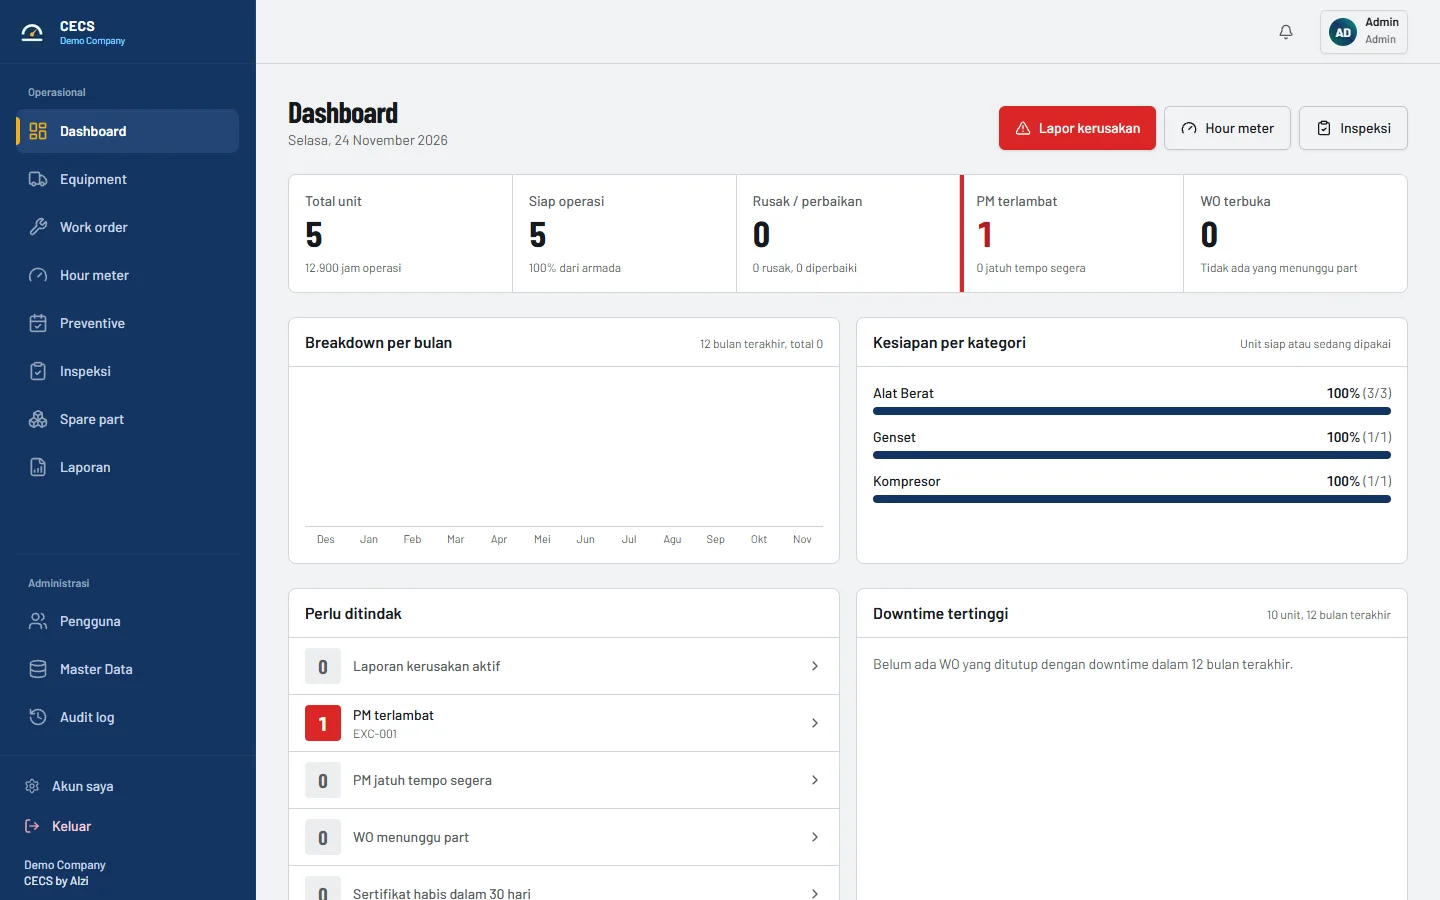
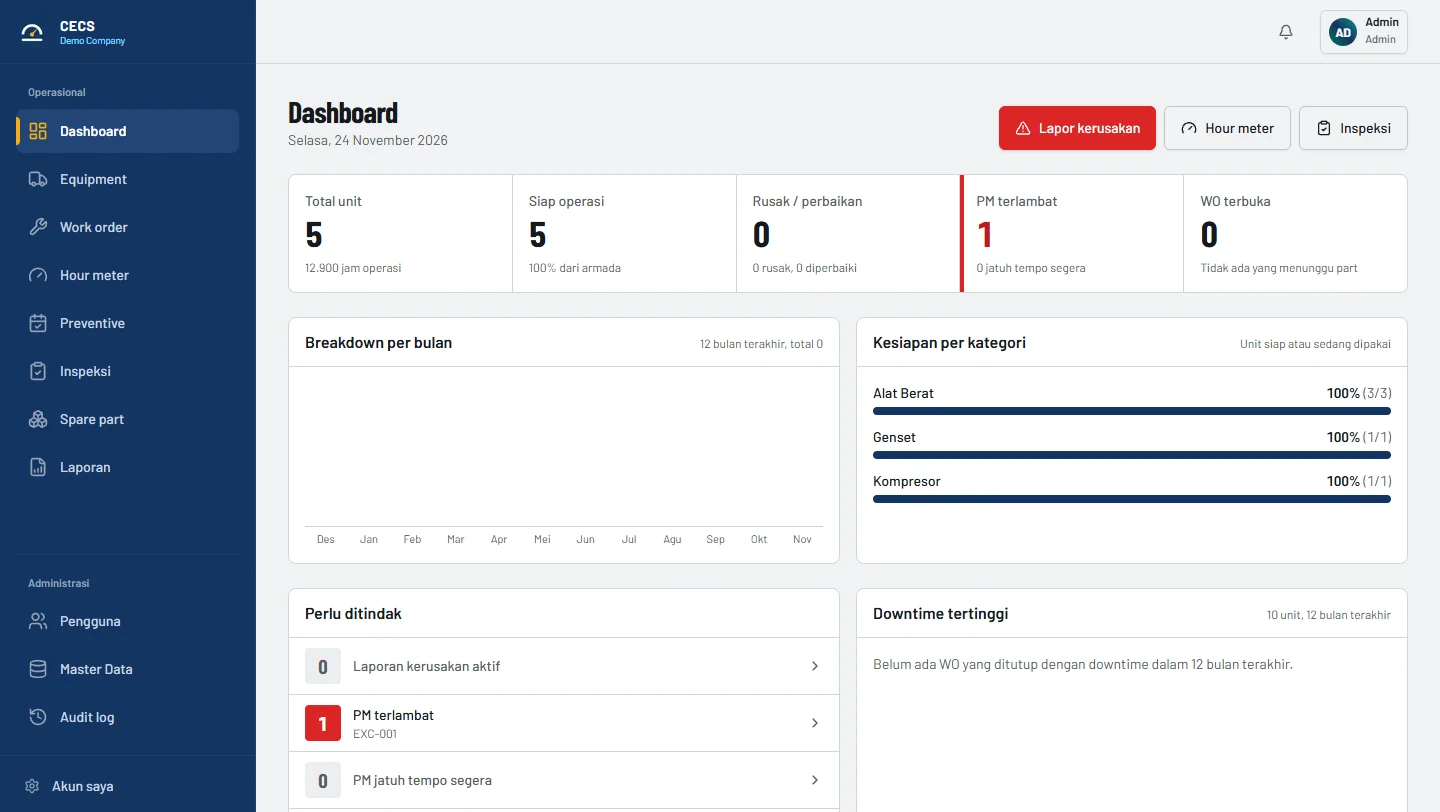
style: show project screenshots whole with titles below
Replace the cropped, darkened covers with centered screenshots on soft tints and share one project card between Home and Works.

diff --git a/src/data/portfolio.ts b/src/data/portfolio.ts
@@ -17,7 +17,7 @@ export type Project = {
   role: string;
   year: string;
   tags: string[];
-  cover: string; // gradient behind app screens
+  cover: string; // background class behind the image
   image?: { src: string; alt: string; kind: "screen" | "full"; position?: string };
   video?: { youtubeId: string; title: string; caption: string };
   blurb: string;
@@ -39,7 +39,7 @@ export const projects: Project[] = [
     role: "Founder & Developer",
     year: "2026",
     tags: ["Electron", "React", "TypeScript", "AI"],
-    cover: "from-[#2A1F6B] via-[#6D3BD1] to-[#B78BFA]",
+    cover: "bg-[#E3DDF4]",
     image: {
       src: "/works/snapculler.webp",
       alt: "SnapCuller grid view with a folder of photos",
@@ -65,7 +65,7 @@ export const projects: Project[] = [
     role: "Software & IoT Engineer",
     year: "Palma Shipyard",
     tags: ["IoT", "Hardware integration", "Reporting"],
-    cover: "from-[#0F2027] via-[#1F4B5C] to-[#2C7A7B]",
+    cover: "bg-[#D9E6E4]",
     image: {
       src: "/works/bollard-pull.webp",
       alt: "Tugboat Cahaya 1603 under test with the live load reading on screen",
@@ -96,7 +96,7 @@ export const projects: Project[] = [
     role: "ERP Functional & Technical Consultant",
     year: "2022 — Now",
     tags: ["ERPNext", "Python", "MariaDB", "Linux"],
-    cover: "from-[#134E5E] via-[#2F7D6B] to-[#71B280]",
+    cover: "bg-[#0F3B3A]",
     image: {
       src: "/works/erpnext.svg",
       alt: "Diagram of stock issues traced back to the receipts they came from",
@@ -122,7 +122,7 @@ export const projects: Project[] = [
     role: "Full-stack Developer",
     year: "2026",
     tags: ["Next.js", "PostgreSQL", "Prisma", "Docker"],
-    cover: "from-[#8A3B12] via-[#D9772B] to-[#F7B955]",
+    cover: "bg-[#F3E2CB]",
     image: {
       src: "/works/cecs.webp",
       alt: "CECS dashboard with demo equipment data",
@@ -148,7 +148,7 @@ export const projects: Project[] = [
     role: "Full-stack Developer",
     year: "2026",
     tags: ["React", "PWA", "TypeScript"],
-    cover: "from-[#7FA8E8] via-[#4C7BDD] to-[#3B5BDB]",
+    cover: "bg-[#DAE4F5]",
     image: {
       src: "/works/nor-checklist.webp",
       alt: "NOR Checklist admin dashboard with demo vessels",
@@ -173,7 +173,7 @@ export const projects: Project[] = [
     role: "Developer",
     year: "2026",
     tags: ["FastAPI", "PostgreSQL", "Docker", "Webhooks"],
-    cover: "from-[#0F3D2E] via-[#1B5E46] to-[#2E8B66]",
+    cover: "bg-[#D8E8DE]",
     image: {
       src: "/works/attendance.webp",
       alt: "Fingerspot Attendance Hub with demo scans",
@@ -199,7 +199,7 @@ export const projects: Project[] = [
     role: "Website Developer",
     year: "2022 — Now",
     tags: ["WordPress", "Elementor", "cPanel"],
-    cover: "from-[#A1C4FD] via-[#7BB1F0] to-[#C2E9FB]",
+    cover: "bg-[#D9E6E4]",
     image: {
       src: "/works/palma.webp",
       alt: "Palma Shipyard website home page",
@@ -223,7 +223,7 @@ export const projects: Project[] = [
     role: "Developer & Creator",
     year: "2026",
     tags: ["React", "TypeScript", "Vite"],
-    cover: "from-[#3B2FA8] via-[#7C5CF0] to-[#E879C9]",
+    cover: "bg-[#E6DDF3]",
     image: {
       src: "/works/securebatch.webp",
       alt: "SecureBatch QR contact form",
@@ -248,7 +248,7 @@ export const projects: Project[] = [
     role: "Developer",
     year: "2025",
     tags: ["Laravel", "PHP", "Bootstrap"],
-    cover: "from-[#8FBF4D] via-[#5FA24A] to-[#3F8F4F]",
+    cover: "bg-[#F4F1E4]",
     image: {
       src: "/works/disciplinr.svg",
       alt: "Illustration of a week of time boxes, kept and missed",

diff --git a/src/routes/works.index.tsx b/src/routes/works.index.tsx
@@ -1,5 +1,5 @@
-import { createFileRoute, Link } from "@tanstack/react-router";
-import { ProjectCover } from "@/components/site/ProjectCover";
+import { createFileRoute } from "@tanstack/react-router";
+import { ProjectCard } from "@/components/site/ProjectCard";
 import { projects } from "@/data/portfolio";
 
 export const Route = createFileRoute("/works/")({
@@ -36,31 +36,9 @@ function Works() {
         </p>
       </header>
 
-      <div className="mt-16 grid gap-8 sm:grid-cols-2">
+      <div className="mt-16 grid gap-x-8 gap-y-14 sm:grid-cols-2">
         {projects.map((p, i) => (
-          <Link
-            key={p.slug}
-            to="/works/$slug"
-            params={{ slug: p.slug }}
-            className={`group block fade-up ${i % 3 === 0 ? "sm:col-span-2" : ""}`}
-            style={{ animationDelay: `${i * 60}ms` }}
-          >
-            <ProjectCover project={p} wide={i % 3 === 0} />
-            <div className="mt-4 flex flex-wrap items-center justify-between gap-2 text-sm">
-              <p className="text-ink">{p.role}</p>
-              <ul className="flex flex-wrap gap-1.5">
-                {p.tags.map((t) => (
-                  <li
-                    key={t}
-                    className="rounded-full border border-border bg-card px-2.5 py-0.5 text-xs text-ink-soft"
-                  >
-                    {t}
-                  </li>
-                ))}
-              </ul>
-            </div>
-            <p className="mt-3 max-w-xl text-sm text-ink-soft">{p.blurb}</p>
-          </Link>
+          <ProjectCard key={p.slug} project={p} wide={i % 3 === 0} />
         ))}
       </div>
     </section>

diff --git a/src/components/site/ProjectMedia.tsx b/src/components/site/ProjectMedia.tsx
@@ -1,13 +1,9 @@
 import { useState } from "react";
 import { projectName, type Project } from "@/data/portfolio";
 
-/** Fills its parent: photos and artwork edge to edge, app screens as an inset window. */
+/** Fills its parent: photos and artwork edge to edge, app screens whole and centered. */
 export function ProjectImage({ project, eager = false }: { project: Project; eager?: boolean }) {
-  if (!project.image) {
-    return (
-      <div className="absolute inset-0 bg-[radial-gradient(circle_at_30%_20%,rgba(255,255,255,0.25),transparent_55%)]" />
-    );
-  }
+  if (!project.image) return null;
   const img = {
     src: project.image.src,
     alt: project.image.alt,
@@ -15,8 +11,11 @@ export function ProjectImage({ project, eager = false }: { project: Project; eag
   };
   if (project.image.kind === "screen") {
     return (
-      <div className="absolute -bottom-px -right-px left-[7%] top-[9%] overflow-hidden rounded-tl-xl shadow-[0_24px_60px_-12px_rgb(0_0_0_/0.55)]">
-        <img {...img} className="h-full w-full object-cover object-left-top" />
+      <div className="absolute inset-[6%] flex items-center justify-center">
+        <img
+          {...img}
+          className="max-h-full max-w-full rounded-md shadow-[0_18px_40px_-16px_rgb(20_20_40_/0.45)] sm:rounded-xl"
+        />
       </div>
     );
   }

diff --git a/src/routes/index.tsx b/src/routes/index.tsx
@@ -1,6 +1,6 @@
 import { createFileRoute, Link } from "@tanstack/react-router";
 import { Annotation, Arrow } from "@/components/site/Annotation";
-import { ProjectCover } from "@/components/site/ProjectCover";
+import { ProjectCard } from "@/components/site/ProjectCard";
 import { capabilities, projects } from "@/data/portfolio";
 
 export const Route = createFileRoute("/")({
@@ -114,20 +114,9 @@ function Index() {
           </Link>
         </div>
 
-        <div className="grid gap-8 sm:grid-cols-2">
+        <div className="grid gap-x-8 gap-y-14 sm:grid-cols-2">
           {featured.map((p, i) => (
-            <Link
-              key={p.slug}
-              to="/works/$slug"
-              params={{ slug: p.slug }}
-              className={`group block ${i === 0 ? "sm:col-span-2" : ""}`}
-            >
-              <ProjectCover project={p} wide={i === 0} />
-              <div className="mt-3 flex flex-wrap items-center justify-between gap-x-4 gap-y-1 text-sm">
-                <span className="text-ink">{p.role}</span>
-                <span className="text-ink-soft">{p.tags.join(" · ")}</span>
-              </div>
-            </Link>
+            <ProjectCard key={p.slug} project={p} wide={i === 0} />
           ))}
         </div>
       </section>

diff --git a/src/components/site/ProjectCard.tsx b/src/components/site/ProjectCard.tsx
@@ -1,0 +1,29 @@
+import { Link } from "@tanstack/react-router";
+import { ProjectImage } from "@/components/site/ProjectMedia";
+import { projectName, type Project } from "@/data/portfolio";
+
+export function ProjectCard({ project, wide = false }: { project: Project; wide?: boolean }) {
+  return (
+    <Link
+      to="/works/$slug"
+      params={{ slug: project.slug }}
+      className={`group block ${wide ? "sm:col-span-2" : ""}`}
+    >
+      <div
+        className={`relative overflow-hidden rounded-2xl sm:rounded-3xl ${project.cover} ${
+          wide ? "aspect-[16/10] sm:aspect-[16/9]" : "aspect-[16/10]"
+        }`}
+      >
+        <ProjectImage project={project} />
+      </div>
+      <div className="mt-5 flex items-baseline justify-between gap-4">
+        <h3 className="font-display text-2xl font-semibold tracking-tight text-ink underline-offset-4 group-hover:underline">
+          {projectName(project)}
+        </h3>
+        <span className="shrink-0 text-sm text-ink-soft">{project.year}</span>
+      </div>
+      <p className="mt-1.5 max-w-2xl text-ink-soft">{project.blurb}</p>
+      <p className="mt-2 text-sm text-ink-soft">{project.tags.join(" · ")}</p>
+    </Link>
+  );
+}

diff --git a/src/routes/works.$slug.tsx b/src/routes/works.$slug.tsx
@@ -72,7 +72,7 @@ function WorkDetail() {
 
       <figure className="mt-10">
         <div
-          className={`relative aspect-[16/9] overflow-hidden rounded-3xl bg-gradient-to-br ${project.cover}`}
+          className={`relative aspect-[16/9] overflow-hidden rounded-2xl sm:rounded-3xl ${project.cover}`}
         >
           {project.video ? (
             <ProjectVideo project={project} />
